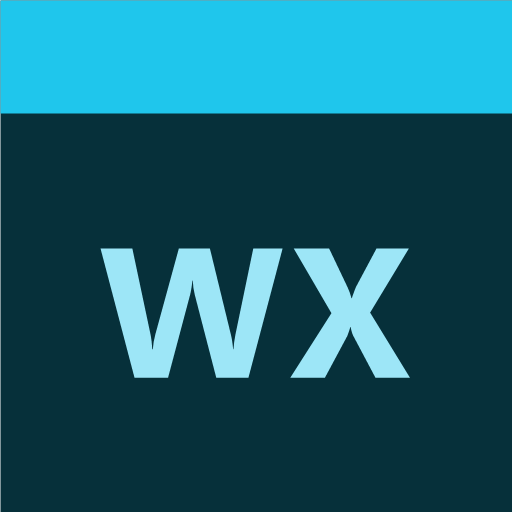
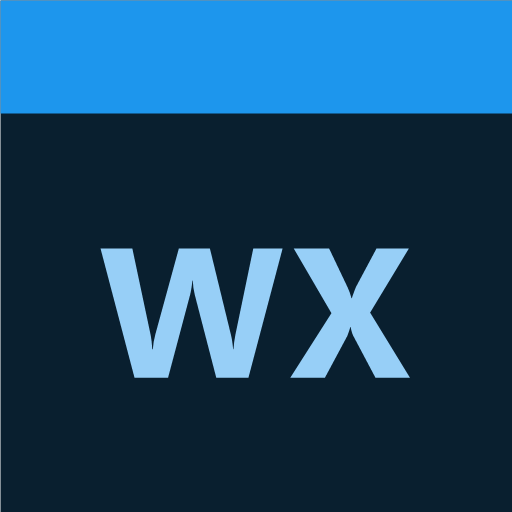
Change the WX Deck key color to sky blue
Hue 205 instead of 190, so the keys read sky blue rather than the same
cyan as Camera Deck: band #1D96ED, with black caption text. The default
key and plugin icon match. Version 1.0.0.10.

Changed region(s): [[0.0, 0.0, 1.0, 0.25]]

diff --git a/src/render.ts b/src/render.ts
@@ -1,10 +1,10 @@
 /**
  * The Panel key style shared with the ChasePlane and Sim Clock plugins: key tinted a deep
  * shade of the app's colour, a solid caption band on top, the value in the middle, a
- * status line at the bottom, and a ring for an alert. WX Deck has one colour, sky cyan.
+ * status line at the bottom, and a ring for an alert. WX Deck has one colour, sky blue.
  * Only flat shapes and text, which Stream Deck draws reliably.
  */
-const HUE = 190;
+const HUE = 205;
 const SAT = 85;
 const FONT = "Segoe UI, Arial, sans-serif";
 
@@ -86,7 +86,7 @@ export type Look = {
     sub?: string;
     /** Ring and status line colour for an alert (freezing, a moderate or severe PIREP). */
     accent?: string;
-    /** Colour for the main text, such as the temperature scale; otherwise white on an alert, the app's light cyan at rest. */
+    /** Colour for the main text, such as the temperature scale; otherwise white on an alert, the app's light blue at rest. */
     valueColor?: string;
     /** A weather icon; the value then becomes a smaller word under it. */
     icon?: keyof typeof ICONS;

diff --git a/src/weather.ts b/src/weather.ts
@@ -12,7 +12,7 @@ const PA_PER_INHG = 3386.389;
 /** Below this height above ground the aircraft counts as on the surface. */
 const SURFACE_AGL_M = 15;
 
-/** Ring colours for alerts; the key itself stays the app's sky cyan. */
+/** Ring colours for alerts; the key itself stays the app's sky blue. */
 export const ICE = "#E8F7FF";
 export const AMBER = "#FFB020";
 export const RED = "#FF4040";

diff --git a/PLAN.md b/PLAN.md
@@ -15,7 +15,7 @@ every few seconds, and never changes StrataWx:
 
 The plugin never calls any other address (some of them change StrataWx settings).
 
-## Keys (Panel style, one color for the app: sky cyan, hue 190)
+## Keys (Panel style, one color for the app: sky blue, hue 205 (owner, 2026-11-01: "stratawx should be a sky blue"))
 
 | Key | Caption | Value | Status line |
 |---|---|---|---|
@@ -26,7 +26,7 @@ The plugin never calls any other address (some of them change StrataWx settings)
 | PIREPs | PIREPS | count nearby (or NONE) | NEAREST 5 NM |
 
 - Press the PIREPs key to step through them: PIREP 1/5, SMOOTH / FL100, A319 · 5 NM. A last press goes back to the count.
-- Alert colors (owner, 2026-10-31: "Yes, add them"). The key stays sky cyan; only the ring and status line change:
+- Alert colors (owner, 2026-10-31: "Yes, add them"). The key stays sky blue; only the ring and status line change:
   - Temp C and Temp F at 0°C or below: ice-white ring, status FREEZING.
   - PIREPs: amber ring for any moderate turbulence or icing report nearby, red ring for severe;
     status names the worst one (MOD TURB, MOD ICE, SEV TURB, SEV ICE).
